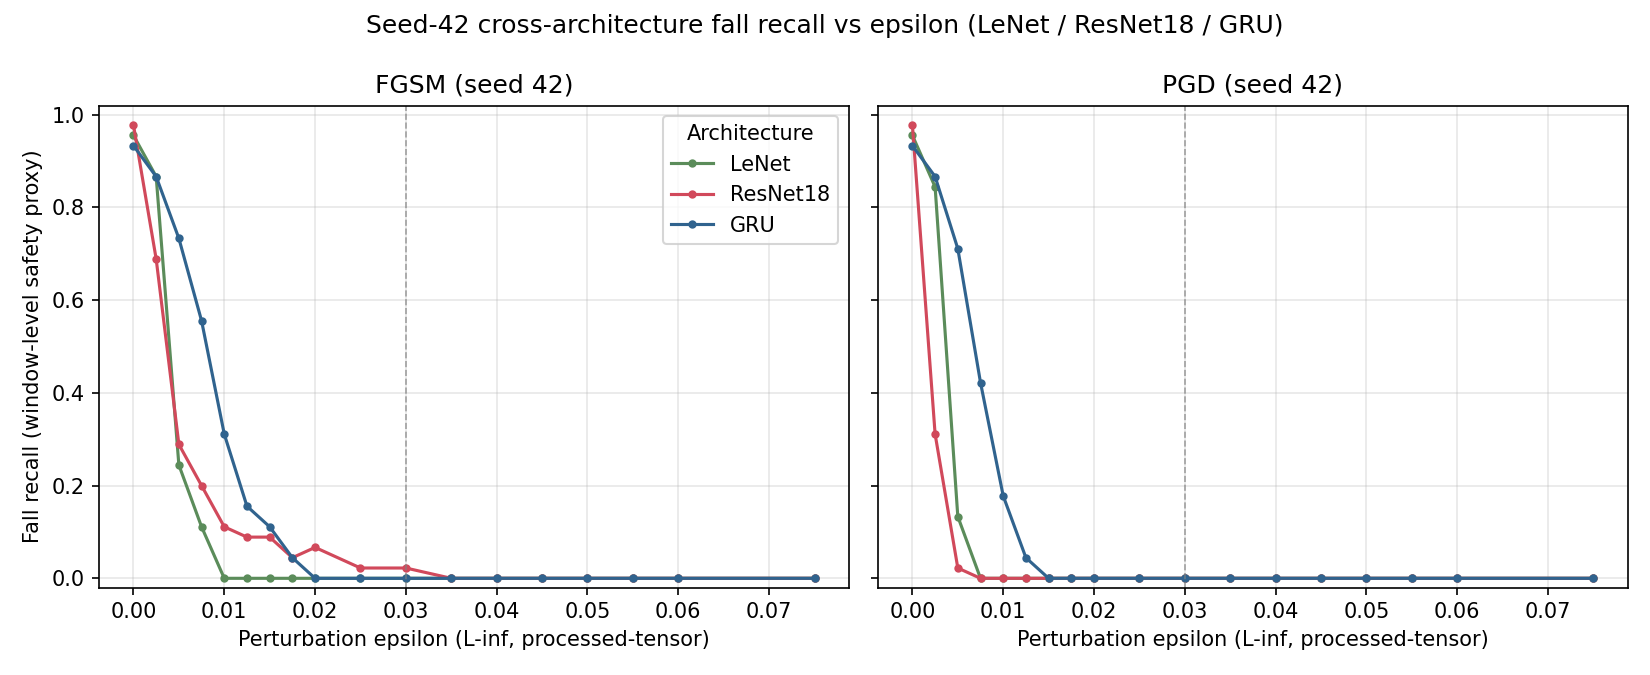
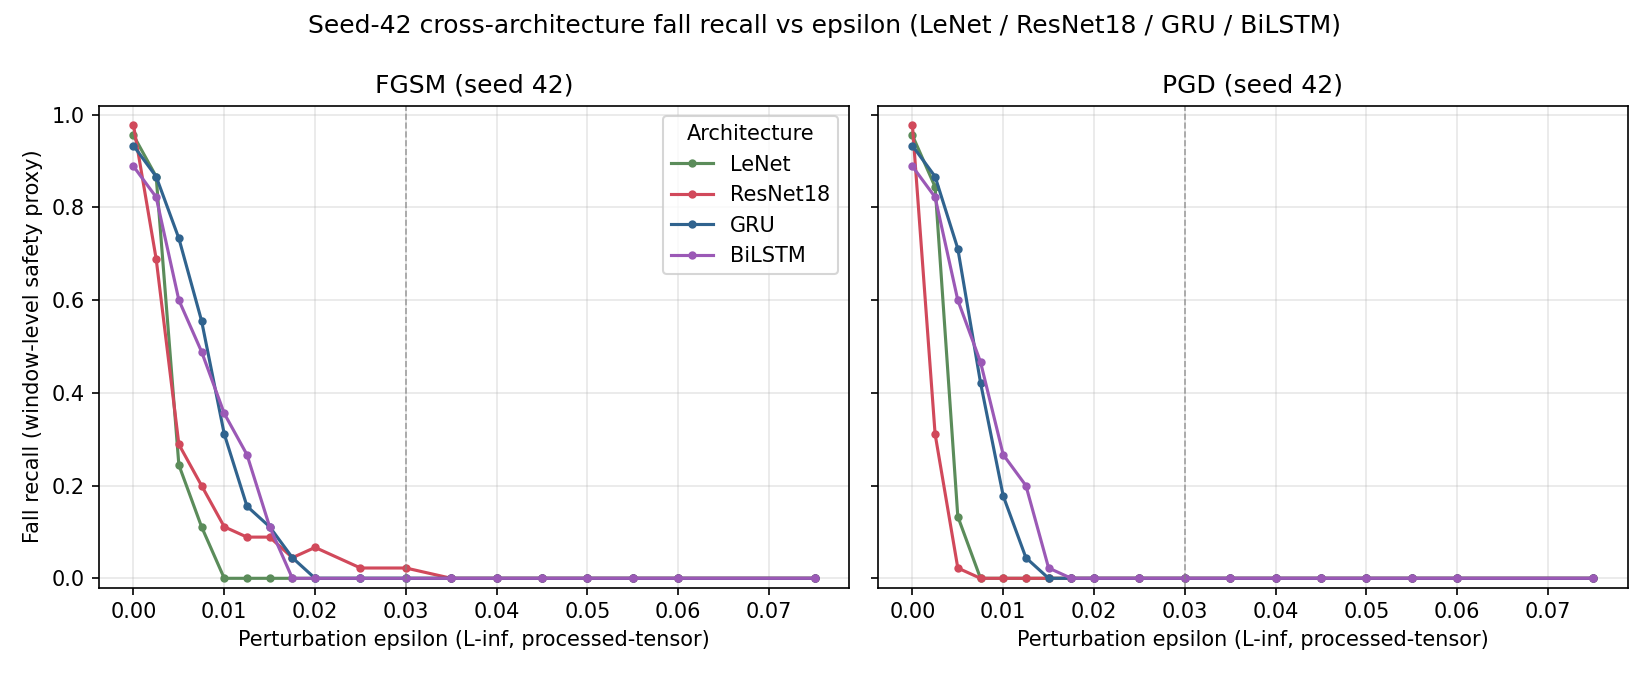
Update Priority 2 cross-architecture package with BiLSTM

diff --git a/tables/chapter_cross_architecture_seed42_table.tex b/tables/chapter_cross_architecture_seed42_table.tex
@@ -1,21 +1,22 @@
-% Seed-42 cross-architecture pilot table (LeNet / ResNet18 / GRU).
+% Seed-42 cross-architecture pilot table (LeNet / ResNet18 / GRU / BiLSTM).
 % Source: results/cross_architecture/cross_architecture_seed42_pilot_summary.csv
 %         results/cross_architecture/cross_architecture_seed42_pilot_thresholds.csv
-% Commits: LeNet (Priority 1, 3200a89), ResNet18 (3578136), GRU (40bd655).
+% Commits: LeNet (Priority 1, 3200a89), ResNet18 (3578136), GRU (40bd655), BiLSTM (c298471).
 % Seed 42; test split n=500 (45 fall, 455 non-fall); attacks at epsilon=0.030.
-% Requires \usepackage{booktabs}.
+% Requires \usepackage{booktabs} and \usepackage{multirow}.
 
 \begin{table}[t]
   \centering
   \caption[Seed-42 cross-architecture adversarial safety-proxy comparison]{%
-    Seed-42 cross-architecture pilot: window-level safety-proxy metrics for
-    three UT-HAR/SenseFi architecture families under matched digital-domain
-    $L_\infty$ attacks at $\varepsilon=0.030$. Test split $n=500$ ($45$ fall,
-    $455$ non-fall). Priority~1 already established five-seed reliability for the
-    LeNet baseline; this pilot uses seed~42 for each architecture to test whether
-    the failure also appears when the architecture changes. Not a multi-seed
-    cross-architecture result; no clinical, over-the-air, or certified-robustness
-    claims.}
+    Seed-42 cross-architecture pilot: window-level safety-proxy metrics for four
+    UT-HAR/SenseFi architecture families under matched digital-domain $L_\infty$
+    attacks at $\varepsilon=0.030$. Test split $n=500$ ($45$ fall, $455$
+    non-fall). Priority~1 established five-seed reliability for the LeNet baseline;
+    this pilot uses seed~42 for each architecture to test whether the failure also
+    appears when the architecture changes. BiLSTM is included as a stronger
+    bidirectional temporal-sequence robustness baseline (not fall-risk
+    prediction). Not a multi-seed cross-architecture result; no clinical,
+    over-the-air, or certified-robustness claims.}
   \label{tab:cross-arch-seed42}
   \begin{tabular}{l l c c c c}
     \toprule
@@ -35,6 +36,11 @@
       & Clean              & $0.933$ & $2$  & $0.938$ \\
     & & FGSM $\varepsilon{=}0.03$ & $0.000$ & $53$ & $-0.108$ \\
     & & PGD $\varepsilon{=}0.03$  & $0.000$ & $65$ & $-0.122$ \\
+    \midrule
+    \multirow{3}{*}{BiLSTM} & \multirow{3}{*}{Recurrent (Bi)}
+      & Clean              & $0.889$ & $7$  & $0.857$ \\
+    & & FGSM $\varepsilon{=}0.03$ & $0.000$ & $30$ & $-0.080$ \\
+    & & PGD $\varepsilon{=}0.03$  & $0.000$ & $55$ & $-0.111$ \\
     \bottomrule
   \end{tabular}
 
@@ -51,10 +57,13 @@
     ResNet18 & PGD  & $0.0025$ & $0.005$  & $0.0075$ \\
     GRU      & FGSM & $0.010$  & $0.0175$ & $0.020$ \\
     GRU      & PGD  & $0.0075$ & $0.0125$ & $0.015$ \\
+    BiLSTM   & FGSM & $0.0075$ & $0.0175$ & $0.0175$ \\
+    BiLSTM   & PGD  & $0.0075$ & $0.015$  & $0.0175$ \\
     \bottomrule
   \end{tabular}
   \\[0.3em]
-  {\footnotesize Requires \texttt{\textbackslash usepackage\{multirow\}} for the
-  grouped model rows. Under PGD at $\varepsilon=0.03$ all three architectures miss
-  every one of the 45 fall windows (fall recall $0.000$).}
+  {\footnotesize Under PGD at $\varepsilon=0.03$ all four architectures miss every
+  one of the 45 fall windows (fall recall $0.000$). BiLSTM is the weakest clean
+  classifier (clean accuracy $0.814$; it did not early-stop within the 200-epoch
+  cap) yet collapses identically under attack.}
 \end{table}

diff --git a/tables/chapter_cross_architecture_seed42_figure_caption.tex b/tables/chapter_cross_architecture_seed42_figure_caption.tex
@@ -1,6 +1,6 @@
 % LaTeX figure environment for the seed-42 cross-architecture fall-recall-vs-epsilon plot.
 % Image: results/cross_architecture/figures/cross_architecture_seed42_fall_recall_vs_epsilon.png
-% Source data commits: LeNet (3200a89), ResNet18 (3578136), GRU (40bd655).
+% Source data commits: LeNet (3200a89), ResNet18 (3578136), GRU (40bd655), BiLSTM (c298471).
 % Requires \usepackage{graphicx}.
 
 \begin{figure}[t]
@@ -8,16 +8,18 @@
   \includegraphics[width=\linewidth]{results/cross_architecture/figures/cross_architecture_seed42_fall_recall_vs_epsilon.png}
   \caption[Seed-42 cross-architecture fall recall vs.\ perturbation budget]{%
     Seed-42 cross-architecture pilot: window-level fall recall versus $L_\infty$
-    perturbation budget $\varepsilon$ for three UT-HAR/SenseFi architectures
-    (LeNet, ResNet18, GRU), shown as separate FGSM (left) and PGD (right) panels.
-    Curves are single-seed (seed~42) on the held-out test split ($n=500$ windows,
-    $45$ fall windows); the dashed vertical line marks the matched evaluation
-    point $\varepsilon=0.03$. Perturbations are digital-domain, processed-tensor
-    perturbations, not physical-layer or over-the-air attacks. All three
-    architectures lose essentially all fall recall under PGD by
-    $\varepsilon\le0.015$, and reach $0.000$ fall recall under PGD at
-    $\varepsilon=0.03$. Priority~1 established five-seed reliability for the
-    LeNet baseline; this figure is a single-seed cross-architecture pilot and is
-    not a multi-seed cross-architecture result.}
+    perturbation budget $\varepsilon$ for four UT-HAR/SenseFi architectures
+    (LeNet, ResNet18, GRU, BiLSTM), shown as separate FGSM (left) and PGD (right)
+    panels. Curves are single-seed (seed~42) on the held-out test split ($n=500$
+    windows, $45$ fall windows); the dashed vertical line marks the matched
+    evaluation point $\varepsilon=0.03$. Perturbations are digital-domain,
+    processed-tensor perturbations, not physical-layer or over-the-air attacks.
+    All four architectures lose essentially all fall recall under PGD by
+    $\varepsilon\le0.0175$, and reach $0.000$ fall recall under PGD at
+    $\varepsilon=0.03$. BiLSTM is included as a stronger bidirectional
+    temporal-sequence robustness baseline (not fall-risk prediction). Priority~1
+    established five-seed reliability for the LeNet baseline; this figure is a
+    single-seed cross-architecture pilot and is not a multi-seed
+    cross-architecture result.}
   \label{fig:cross-arch-seed42-fall-recall}
 \end{figure}

diff --git a/notes/priority2_seed42_cross_architecture_pilot.md b/notes/priority2_seed42_cross_architecture_pilot.md
@@ -10,21 +10,33 @@ families**, not a full multi-seed cross-architecture study.
 Priority 1 already established **five-seed (42–46) reliability for LeNet**: the
 collapse there is reproducible, not a single-seed artifact. This pilot asks the
 complementary question — does the same failure mode appear under a deeper
-convolutional network and under a recurrent network — using **seed 42 only** for
+convolutional network and under recurrent networks — using **seed 42 only** for
 each new architecture.
+
+## BiLSTM framing (thesis-safe)
+The BiLSTM experiment is **not** presented as fall-risk prediction. Instead, it
+serves as a temporal-sequence robustness check motivated by future gait-based
+fall-risk monitoring. Because fall-risk estimation requires longitudinal labels
+and clinical outcome data, this thesis uses BiLSTM only to test whether temporal
+CSI models exhibit similar adversarial safety-proxy degradation under the
+available UT-HAR activity-recognition protocol. UT-HAR contains no longitudinal
+older-adult fall-risk labels, clinical scores, future-fall outcomes, or multi-day
+gait trajectories; BiLSTM is therefore a stronger bidirectional temporal-sequence
+robustness baseline only.
 
 ## Models used (all from the SenseFi UT-HAR family, same input `(N,1,250,90)`)
 | Model | Family | Source class | Params | Commit |
 |---|---|---|---|---|
-| LeNet | CNN (LeNet) | `UT_HAR_LeNet` | 296K | Priority 1 (aggregate `3200a89`, package `14a1e6f`) |
-| ResNet18 | Deep CNN (ResNet-18) | `UT_HAR_ResNet18` | 11.18M | `3578136` |
-| GRU | Recurrent (GRU) | `UT_HAR_GRU` | 30K | `40bd655` |
+| LeNet | CNN (LeNet) | `UT_HAR_LeNet` | 295,655 | Priority 1 (aggregate `3200a89`, package `14a1e6f`) |
+| ResNet18 | Deep CNN (ResNet-18) | `UT_HAR_ResNet18` | 11,182,142 | `3578136` |
+| GRU | Recurrent (GRU) | `UT_HAR_GRU` | 30,407 | `40bd655` |
+| BiLSTM | Recurrent (BiLSTM) | `UT_HAR_BiLSTM` | 80,327 | `c298471` |
 
-Selected via the `--model` factory (`scripts/model_factory.py`). The ResNet and
-GRU models already existed in the SenseFi clone
+Selected via the `--model` factory (`scripts/model_factory.py`). All four models
+already existed in the SenseFi clone
 (`third_party/WiFi-CSI-Sensing-Benchmark/UT_HAR_model.py`); no new architecture
-code was written. ResNet carries its own input reshape head; GRU reshapes
-internally via `x.view(-1,250,90)` — both consume the same processed tensors as
+code was written. ResNet carries its own input reshape head; GRU/BiLSTM reshape
+internally via `x.view(-1,250,90)` — all consume the same processed tensors as
 LeNet, so preprocessing, FGSM/PGD attack math, and metric scripts are unchanged.
 
 ## Protocol (identical to Priority 1)
@@ -45,8 +57,13 @@ LeNet, so preprocessing, FGSM/PGD attack math, and metric scripts are unchanged.
 | LeNet | 0.970 | 0.952 | 0.956 | 0.044 | 0 | 0.975 | 43/2/0/455 |
 | ResNet18 | 0.942 | 0.900 | 0.978 | 0.022 | 1 | 0.976 | 44/1/1/454 |
 | GRU | 0.904 | 0.882 | 0.933 | 0.067 | 2 | 0.938 | 42/3/2/453 |
+| BiLSTM | 0.814 | 0.769 | 0.889 | 0.111 | 7 | 0.857 | 40/5/7/448 |
 
-All three are strong clean classifiers (clean fall recall 0.93–0.98).
+LeNet, ResNet18, and GRU are strong clean classifiers (clean fall recall
+0.93–0.98). BiLSTM is the weakest clean classifier (accuracy 0.814, fall recall
+0.889) and did **not** early-stop — it ran the full 200-epoch cap, indicating it
+is harder to converge on UT-HAR. Its clean fall recall is still high enough
+(0.889) to make the post-attack collapse meaningful.
 
 ## FGSM / PGD at epsilon = 0.03
 | Model | FGSM recall | FGSM FP | FGSM MCC | PGD recall | PGD FP | PGD MCC | FGSM TP/FN/FP/TN | PGD TP/FN/FP/TN |
@@ -54,11 +71,12 @@ All three are strong clean classifiers (clean fall recall 0.93–0.98).
 | LeNet | 0.000 | 47 | −0.101 | 0.000 | 48 | −0.102 | 0/45/47/408 | 0/45/48/407 |
 | ResNet18 | 0.022 | 14 | −0.014 | 0.000 | 43 | −0.096 | 1/44/14/441 | 0/45/43/412 |
 | GRU | 0.000 | 53 | −0.108 | 0.000 | 65 | −0.122 | 0/45/53/402 | 0/45/65/390 |
+| BiLSTM | 0.000 | 30 | −0.080 | 0.000 | 55 | −0.111 | 0/45/30/425 | 0/45/55/400 |
 
-Under PGD at ε=0.03, **all three architectures miss every one of the 45 fall
-windows** (fall recall 0.000). FGSM at ε=0.03 collapses LeNet and GRU to 0.000
-and ResNet18 to 0.022. MCC at ε=0.03 is ≤ 0 for every model/attack — worse than
-chance on the fall-vs-nonfall proxy.
+Under PGD at ε=0.03, **all four architectures miss every one of the 45 fall
+windows** (fall recall 0.000). FGSM at ε=0.03 collapses LeNet, GRU, and BiLSTM to
+0.000 and ResNet18 to 0.022. MCC at ε=0.03 is ≤ 0 for every model/attack — worse
+than chance on the fall-vs-nonfall proxy.
 
 ## Collapse thresholds (smallest ε on the grid)
 | Model | Attack | recall < 0.50 | recall < 0.10 | recall = 0 |
@@ -69,8 +87,10 @@ chance on the fall-vs-nonfall proxy.
 | ResNet18 | PGD | 0.0025 | 0.005 | 0.0075 |
 | GRU | FGSM | 0.010 | 0.0175 | 0.020 |
 | GRU | PGD | 0.0075 | 0.0125 | 0.015 |
+| BiLSTM | FGSM | 0.0075 | 0.0175 | 0.0175 |
+| BiLSTM | PGD | 0.0075 | 0.015 | 0.0175 |
 
-PGD reaches zero fall recall at a small budget (ε ≤ 0.015) for all three models.
+PGD reaches zero fall recall at a small budget (ε ≤ 0.0175) for all four models.
 ResNet18 is the most FGSM-tolerant (FGSM recall hits 0 only at ε=0.035) but is
 still fully broken by PGD by ε=0.0075.
 
@@ -81,18 +101,22 @@ still fully broken by PGD by ε=0.0075.
   - `results/cross_architecture/figures/cross_architecture_seed42_fall_recall_vs_epsilon.png` (FGSM & PGD panels)
   - `results/cross_architecture/figures/cross_architecture_seed42_pgd_false_alarms_at_003.png`
 - LaTeX: `tables/chapter_cross_architecture_seed42_table.tex`, `tables/chapter_cross_architecture_seed42_figure_caption.tex`
-- Per-model raw results: `results/converged_*` (LeNet), `results/cross_architecture/resnet/`, `results/cross_architecture/gru/`
+- Per-model raw results: `results/converged_*` (LeNet), `results/cross_architecture/{resnet,gru,bilstm}/`
 
 ## Limitations
-- **Seed-42 pilot only** for ResNet18 and GRU (single seed each). Multi-seed
-  reliability is established **only for LeNet** (Priority 1, seeds 42–46). This
-  pilot does **not** establish multi-seed cross-architecture reliability.
-- Three architectures (one each: LeNet/ResNet18/GRU) — not an exhaustive sweep
-  of model families.
+- **Seed-42 pilot only** for ResNet18, GRU, and BiLSTM (single seed each).
+  Multi-seed reliability is established **only for LeNet** (Priority 1, seeds
+  42–46). This pilot does **not** establish multi-seed cross-architecture
+  reliability.
+- Four architectures (one each: LeNet/ResNet18/GRU/BiLSTM) — not an exhaustive
+  sweep of model families; Transformer/attention not included.
+- BiLSTM did not converge as strongly as the other models (no early stop; clean
+  accuracy 0.814). Its post-attack collapse is still complete, but its weaker
+  clean baseline should be reported alongside.
 - ResNet18 seed-42 clean training was run under heavy machine contention
-  (recorded `elapsed ≈ 7.9 h`); this is a non-representative wall-clock time, not
-  a property of the model, and does not affect correctness (deterministic seed,
-  normal early-stopping).
+  (recorded `elapsed ≈ 7.9 h`); a non-representative wall-clock time, not a model
+  property, and not affecting correctness (deterministic seed, normal
+  early-stopping).
 - All quantities are window-level safety-proxy metrics on digital-domain,
   processed-tensor perturbations.
 
@@ -100,12 +124,16 @@ still fully broken by PGD by ε=0.0075.
 - This is a **seed-42 cross-architecture pilot**. Priority 1 already established
   **five-seed reliability for the LeNet baseline**; this pilot tests whether the
   same safety-proxy failure **also appears when the architecture changes**
-  (deeper CNN, recurrent network), using seed 42 for each new architecture.
-- The pilot indicates the failure is **not specific to LeNet**: under matched
-  PGD at ε=0.03, LeNet, ResNet18, and GRU all collapse to 0.000 window-level
+  (deeper CNN, recurrent GRU, bidirectional BiLSTM), using seed 42 for each new
+  architecture.
+- **BiLSTM extends the pilot to a stronger bidirectional temporal model**, framed
+  only as a temporal-sequence robustness check motivated by future gait/fall-risk
+  monitoring — **not** as clinical fall-risk prediction.
+- The pilot indicates the failure is **not specific to LeNet**: under matched PGD
+  at ε=0.03, LeNet, ResNet18, GRU, and BiLSTM all collapse to 0.000 window-level
   fall recall on seed 42.
 - Do **not** claim full multi-seed cross-architecture reliability (only LeNet has
   multi-seed evidence so far).
-- Do **not** claim real-world clinical unsafe behavior, over-the-air validation,
-  or certified robustness. These are digital-domain, software-only, window-level
-  safety-proxy results.
+- Do **not** claim clinical fall-risk prediction, real-world clinical unsafe
+  behavior, over-the-air validation, or certified robustness. These are
+  digital-domain, software-only, window-level safety-proxy results.